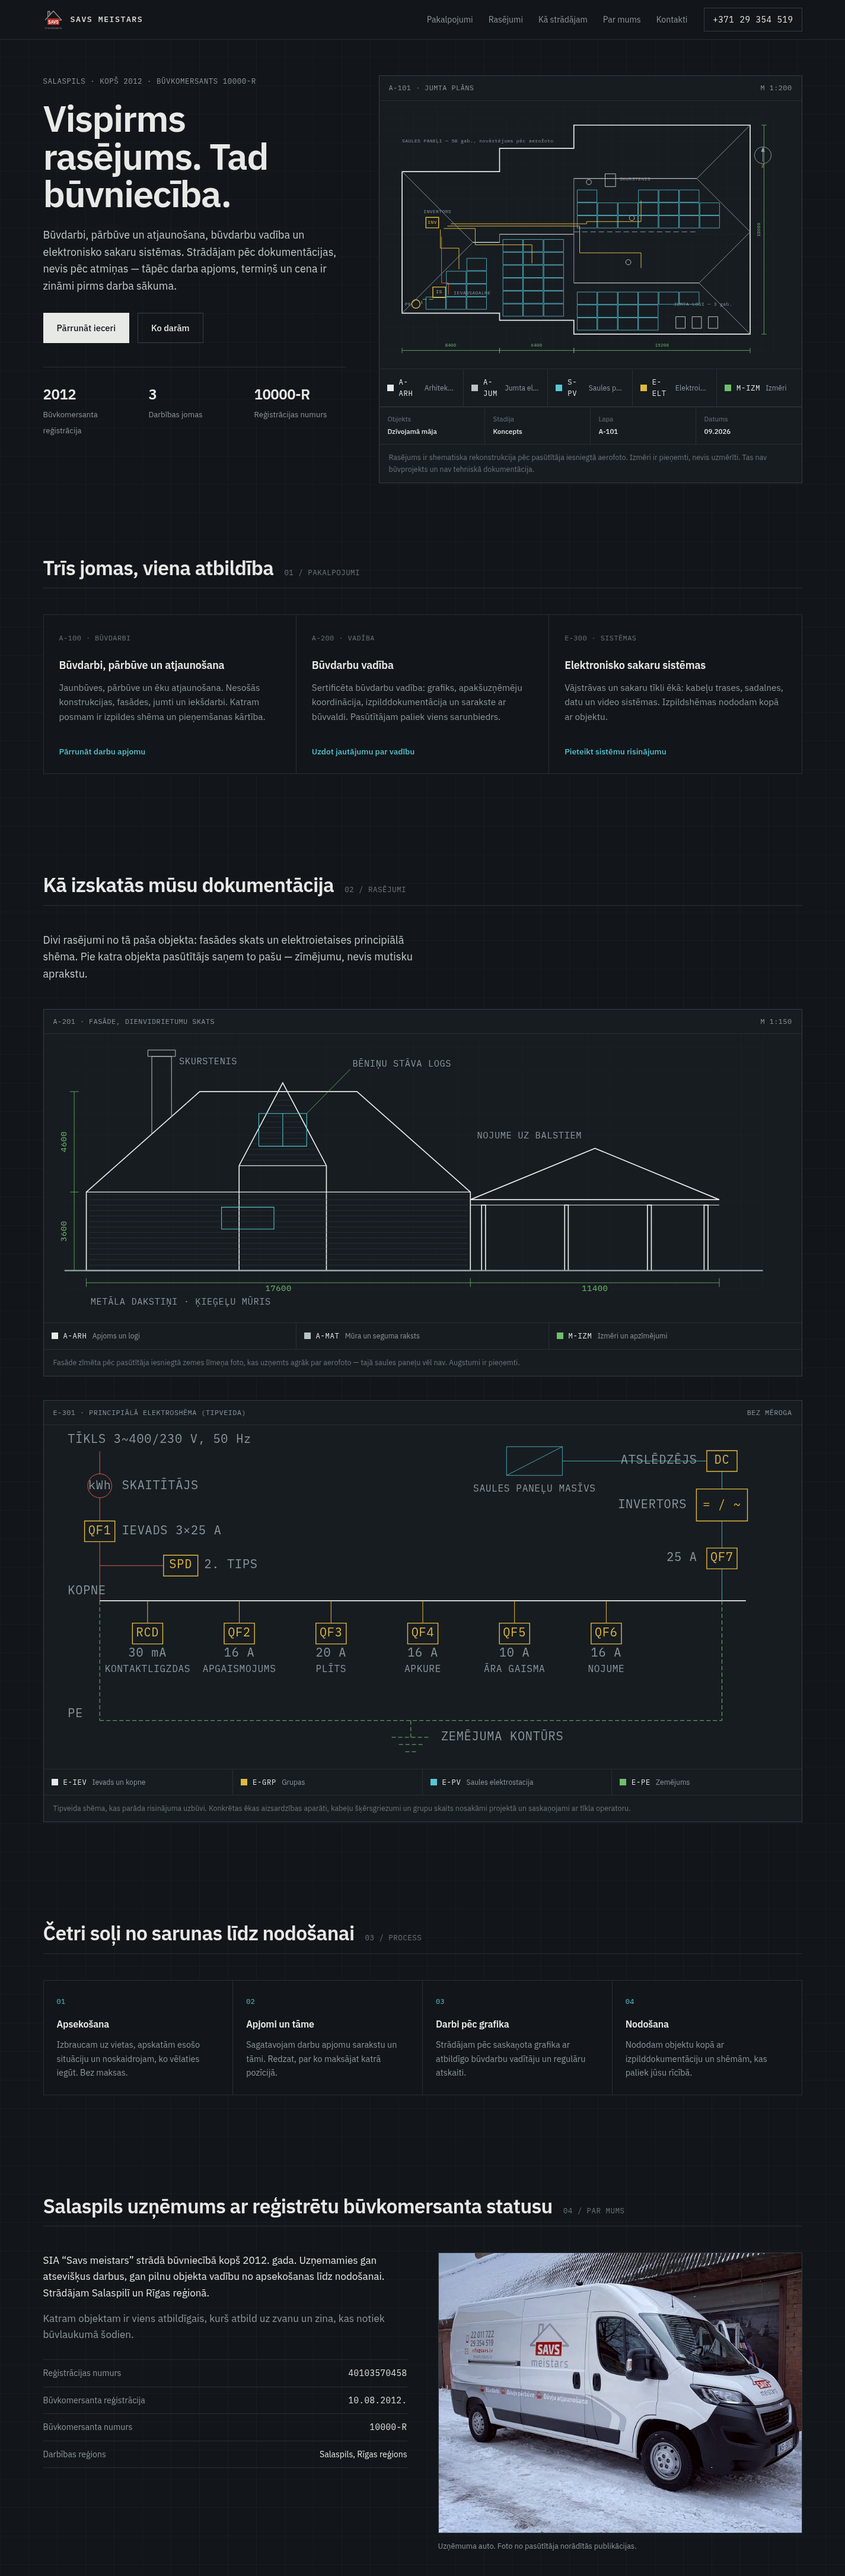
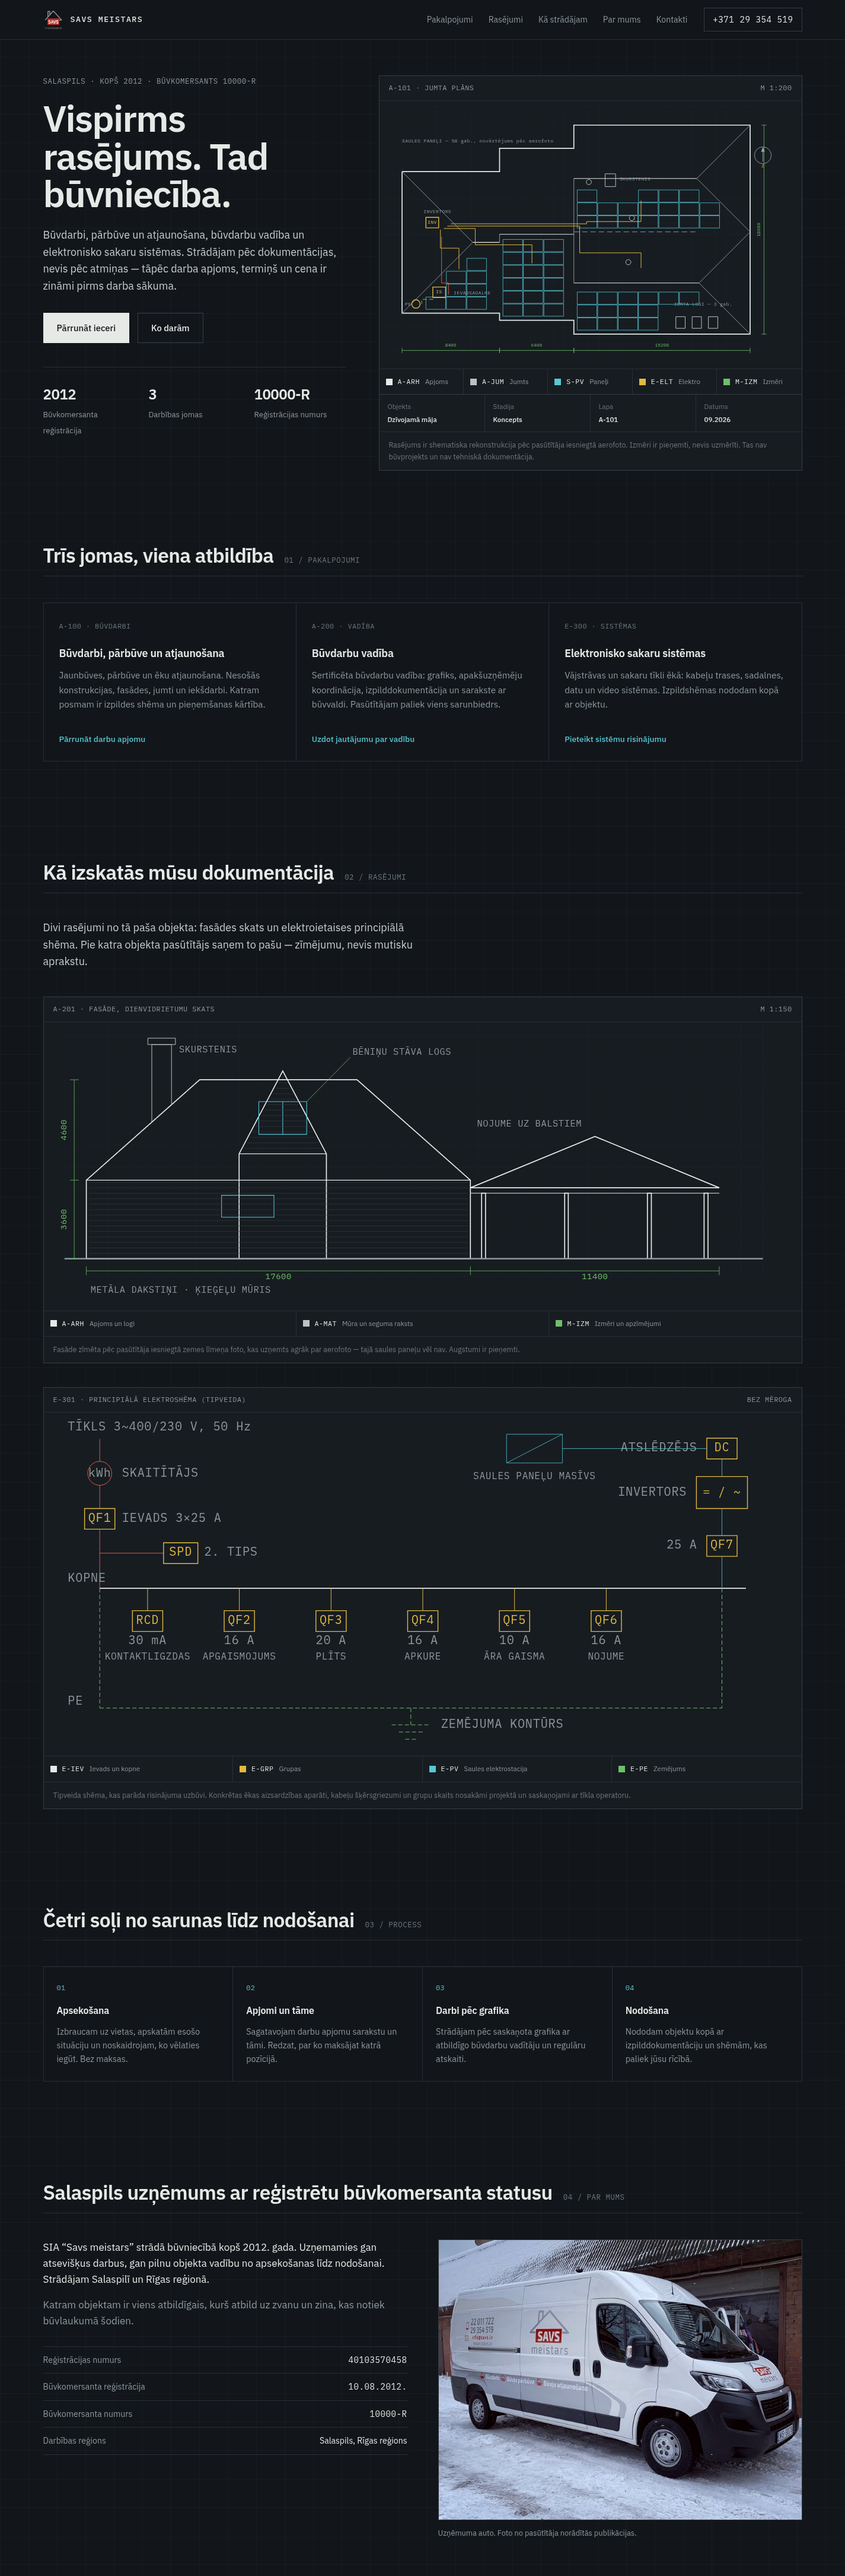
Pārbaudes pārlūkā un salasāms slāņu panelis
check-browser.mjs pārbauda slāņu uzklāšanos, izvēlni un formu īstā
pārlūkā; līdz šim bija pārbaudīta tikai JS sintakse. Slāņu nosaukumi
saīsināti, lai visi pieci ietilpst vienā rindā bez apraušanas.

Claude-Session: https://claude.ai/code/session_01GfD4Ama3XoECesJfTBw5Z4

diff --git a/index.html b/index.html
@@ -73,10 +73,10 @@
           </svg>
         </div>
         <div class="layers" id="layers">
-          <button class="layer l-arh" type="button" aria-pressed="true" data-target="dwg-roof" data-layer="arh"><i class="swatch"></i><span class="code">A-ARH</span> <span class="nm">Arhitektūra</span></button>
-          <button class="layer l-jumt" type="button" aria-pressed="true" data-target="dwg-roof" data-layer="jumt"><i class="swatch"></i><span class="code">A-JUM</span> <span class="nm">Jumta elementi</span></button>
-          <button class="layer l-pv" type="button" aria-pressed="true" data-target="dwg-roof" data-layer="pv"><i class="swatch"></i><span class="code">S-PV</span> <span class="nm">Saules paneļi</span></button>
-          <button class="layer l-elt" type="button" aria-pressed="true" data-target="dwg-roof" data-layer="elt"><i class="swatch"></i><span class="code">E-ELT</span> <span class="nm">Elektroietaise</span></button>
+          <button class="layer l-arh" type="button" aria-pressed="true" data-target="dwg-roof" data-layer="arh"><i class="swatch"></i><span class="code">A-ARH</span> <span class="nm">Apjoms</span></button>
+          <button class="layer l-jumt" type="button" aria-pressed="true" data-target="dwg-roof" data-layer="jumt"><i class="swatch"></i><span class="code">A-JUM</span> <span class="nm">Jumts</span></button>
+          <button class="layer l-pv" type="button" aria-pressed="true" data-target="dwg-roof" data-layer="pv"><i class="swatch"></i><span class="code">S-PV</span> <span class="nm">Paneļi</span></button>
+          <button class="layer l-elt" type="button" aria-pressed="true" data-target="dwg-roof" data-layer="elt"><i class="swatch"></i><span class="code">E-ELT</span> <span class="nm">Elektro</span></button>
           <button class="layer l-izm" type="button" aria-pressed="true" data-target="dwg-roof" data-layer="izm"><i class="swatch"></i><span class="code">M-IZM</span> <span class="nm">Izmēri</span></button>
         </div>
         <div class="titleblock">

diff --git a/index.src.html b/index.src.html
@@ -68,10 +68,10 @@
           </svg>
         </div>
         <div class="layers" id="layers">
-          <button class="layer l-arh" type="button" aria-pressed="true" data-target="dwg-roof" data-layer="arh"><i class="swatch"></i><span class="code">A-ARH</span> <span class="nm">Arhitektūra</span></button>
-          <button class="layer l-jumt" type="button" aria-pressed="true" data-target="dwg-roof" data-layer="jumt"><i class="swatch"></i><span class="code">A-JUM</span> <span class="nm">Jumta elementi</span></button>
-          <button class="layer l-pv" type="button" aria-pressed="true" data-target="dwg-roof" data-layer="pv"><i class="swatch"></i><span class="code">S-PV</span> <span class="nm">Saules paneļi</span></button>
-          <button class="layer l-elt" type="button" aria-pressed="true" data-target="dwg-roof" data-layer="elt"><i class="swatch"></i><span class="code">E-ELT</span> <span class="nm">Elektroietaise</span></button>
+          <button class="layer l-arh" type="button" aria-pressed="true" data-target="dwg-roof" data-layer="arh"><i class="swatch"></i><span class="code">A-ARH</span> <span class="nm">Apjoms</span></button>
+          <button class="layer l-jumt" type="button" aria-pressed="true" data-target="dwg-roof" data-layer="jumt"><i class="swatch"></i><span class="code">A-JUM</span> <span class="nm">Jumts</span></button>
+          <button class="layer l-pv" type="button" aria-pressed="true" data-target="dwg-roof" data-layer="pv"><i class="swatch"></i><span class="code">S-PV</span> <span class="nm">Paneļi</span></button>
+          <button class="layer l-elt" type="button" aria-pressed="true" data-target="dwg-roof" data-layer="elt"><i class="swatch"></i><span class="code">E-ELT</span> <span class="nm">Elektro</span></button>
           <button class="layer l-izm" type="button" aria-pressed="true" data-target="dwg-roof" data-layer="izm"><i class="swatch"></i><span class="code">M-IZM</span> <span class="nm">Izmēri</span></button>
         </div>
         <div class="titleblock">

diff --git a/styles.css b/styles.css
@@ -398,13 +398,13 @@ p:last-child { margin-bottom: 0; }
   align-items: center;
   gap: 9px;
   min-width: 0;
-  padding: 12px 13px;
+  padding: 12px 11px;
   background: none;
   border: 0;
   border-right: 1px solid var(--line);
   color: var(--muted);
   font: inherit;
-  font-size: .76rem;
+  font-size: .72rem;
   text-align: left;
   cursor: pointer;
 }
@@ -424,7 +424,7 @@ p:last-child { margin-bottom: 0; }
 .layer[aria-pressed="false"] .swatch { background: none; }
 .layer[aria-pressed="true"] { color: var(--ink); }
 
-.layer .code { font-family: PlexMono, monospace; letter-spacing: .06em; }
+.layer .code { font-family: PlexMono, monospace; letter-spacing: .05em; white-space: nowrap; }
 .layer .nm { color: var(--muted); overflow: hidden; text-overflow: ellipsis; white-space: nowrap; }
 .layer[aria-pressed="false"] .nm { color: var(--muted-2); }
 

diff --git a/README.md b/README.md
@@ -61,6 +61,16 @@ Pakalpojuma karte automātiski izvēlas attiecīgo pakalpojumu formā. Forma pā
 
 ## Pārbaudes
 
-`node --check app.js` pārbauda JavaScript sintaksi. Priekšskati `desktop-preview.png` (1425 px) un `mobile-preview.png` (390 px) uzņemti ar Chromium bezgalvas režīmā no lokāla servera.
+`node --check app.js` pārbauda JavaScript sintaksi.
+
+`check-browser.mjs` pārbauda lapu īstā pārlūkā pa DevTools portu 9333 un raksta `browser-checks.json`. Pārbauda horizontālo pārpildi platumos 1440, 1024, 768, 390 un 320, attēlu ielādi, iekšējās saites, mobilo izvēlni un formas validāciju. Galvenais — slāņu slēdžus: ka sākumā visi pieci slāņi ir redzami un `data-off` nav uzstādīts, ka viena slāņa izslēgšana paslēpj tieši to grupu un pārējās atstāj redzamas, ka divu slāņu izslēgšana ir **uzklājama** (abi pazūd, pārējie paliek, un viena atgriešana neatgriež otru), un ka tas pats strādā arī fasādes un elektroshēmas rasējumos.
+
+```
+python3 -m http.server 8751 --bind 127.0.0.1 --directory .
+chromium --headless --remote-debugging-port=9333 about:blank
+node check-browser.mjs
+```
+
+Priekšskati `desktop-preview.png` (1425 px) un `mobile-preview.png` (390 px) uzņemti ar Chromium bezgalvas režīmā no tā paša servera.
 
 `robots.txt` un `<meta name="robots">` tur lapu ārpus meklētājiem, jo tajā ir uzņēmuma īstie kontakti un tā vēl nav apstiprināta publiskošanai.
